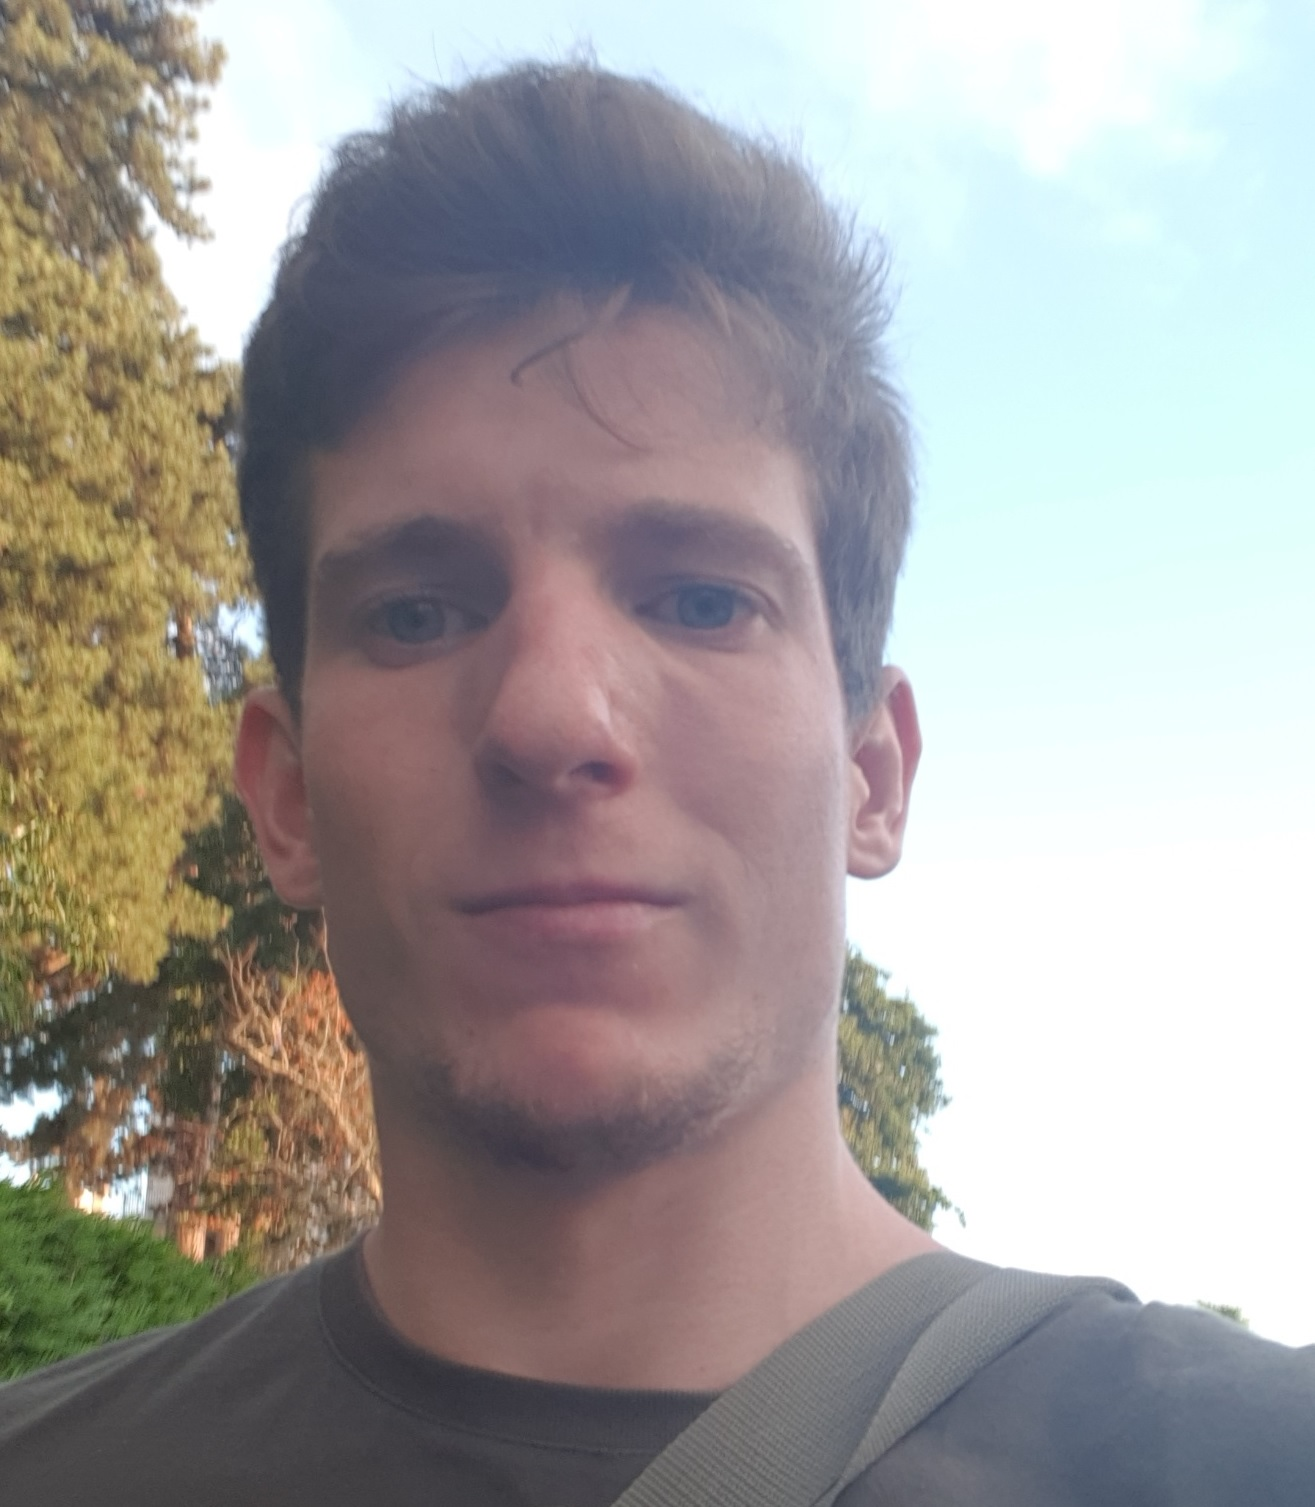
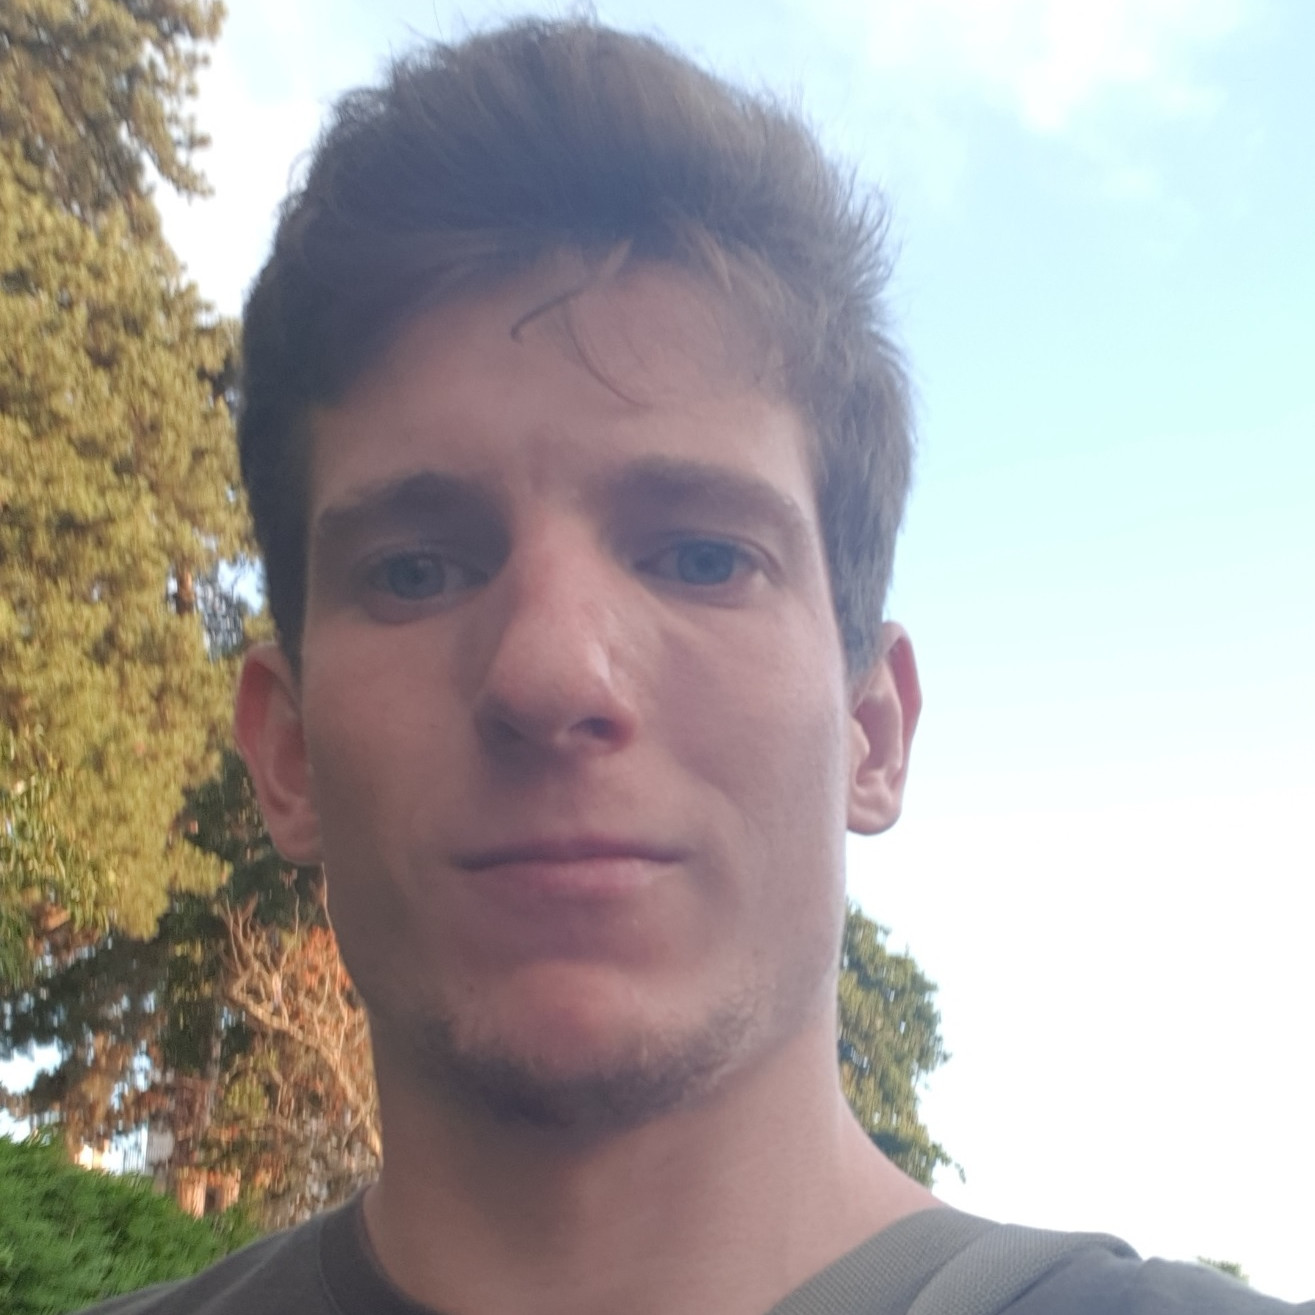
change some css and update photo

diff --git a/docs/style.css b/docs/style.css
@@ -13,7 +13,7 @@ body{
 }
 
 #photoprofil{
-    width: 15vh;
+    width: 10vh;
     border-radius: 50%;
     margin-right: 25px;
 }
@@ -35,8 +35,8 @@ header{
 }
 
 header h1{
-    text-decoration: underline dotted rgba(255,255,255,0.4);
-    font-size: 2vw;
+    text-decoration: underline wavy rgba(255,255,255,0.4);
+    font-size: 1vh;
     margin-bottom: 20px;
 }
 
